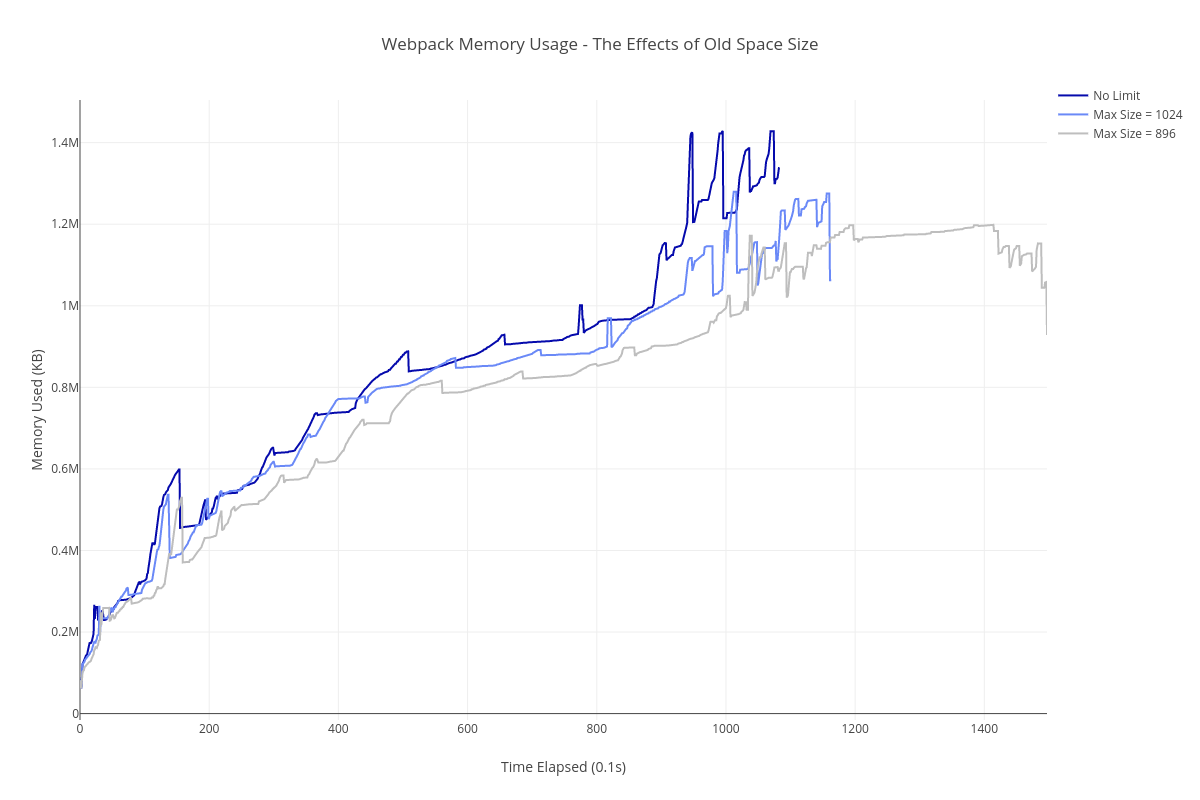
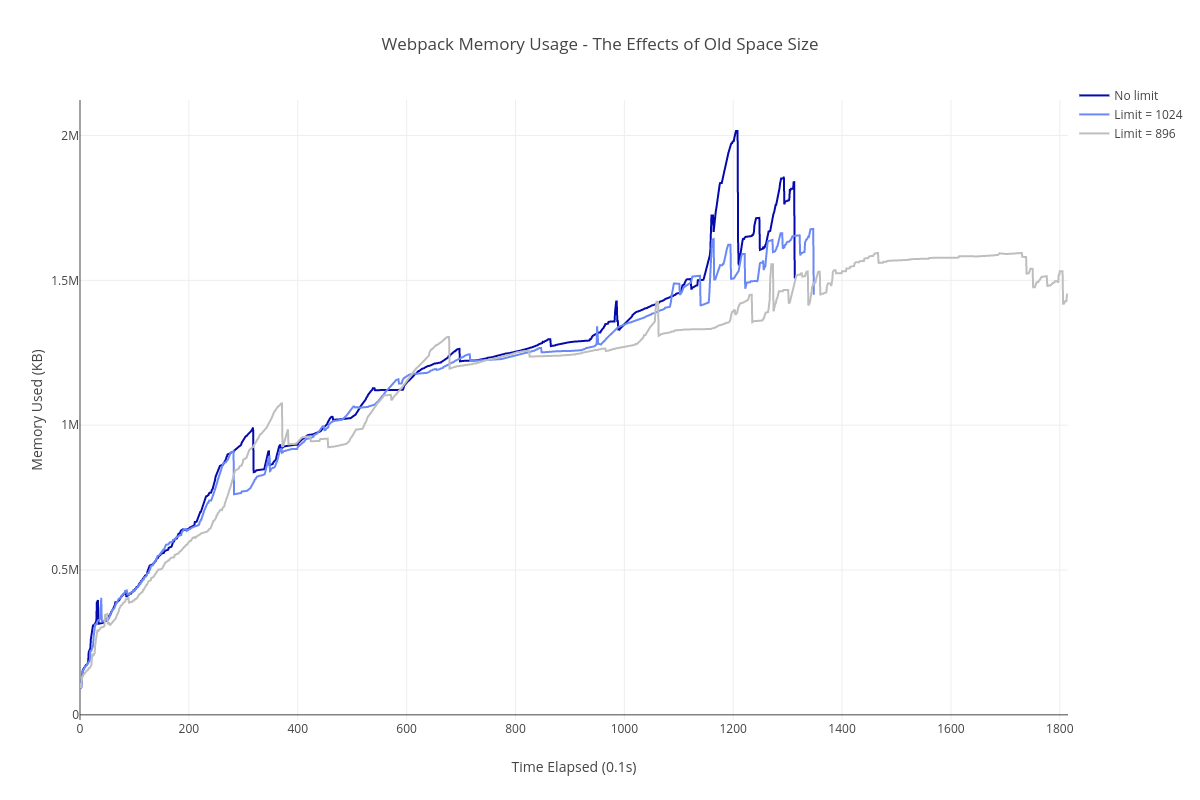
Updated draft for second article

diff --git a/webpack-article-2/working-draft.md b/webpack-article-2/working-draft.md
@@ -18,48 +18,56 @@ We have multiple pipelines for doing all sorts of stuff, but the focus of this a
 
 1. It clones the Github repo and checks out the commit that triggered the build
 2. It performs a number of preparatory tasks such as installing Node modules
-3. It executes `rake assets:precompile`, which is the Rails command for kicking off compilation in the Rails asset pipeline
-4. This compiles all of the assets for legacy Clio and, because we use the [Webpacker](https://github.com/rails/webpacker) gem, also starts Webpack to compile new Clio (Henceforth referred to as Apollo)
+3. It compiles all of the assets in the Rails asset pipeline (mainly used for our legacy application)
+4. It compiles our revamped application, Apollo, using Webpack
 
-This pipeline worked great, until it didn't. Our AWS EC2 instances are of type `c5.large`, which comes with 4GB of memory. Because of background processes, by the time `rake assets:precompile` begins, there is only around 2GB of memory available to be shared among the "actual" compilation processes. As the size of Apollo grew, Webpack started demanding more and more memory. Eventually, as Webpack was starved of the memory it needs, we started experiencing excruciatingly slow builds with intermittent failures.
+This pipeline worked great, until it didn't. Our AWS EC2 instances are of type `c5.large`, which comes with 4gb of memory. But because of other processes, by the time Webpack begins, there is only around 2gb of memory available for it to use. As the size of Apollo grew, Webpack started demanding more and more memory. Eventually, as Webpack was starved of the memory it needs, we started experiencing excruciatingly slow builds with intermittent failures.
+
+Now that the problem has been clearly identified, let's talk about the ways we tried to deal with it.
 
 ## The Blackbox Approach
 
-Now that the problem has been clearly identified, let us begin talking about the solutions.
-
-I would like to introduce the first approach we took as the "blackbox" approach, in reference to the blackbox method of testing that many programmers are familiar with. In this approach, we treated our Webpack process as a "black box" that can only be examined and controlled from the outside.
-
-Let me explain.
+I would like to introduce the first approach we took as the "blackbox" approach, in reference to the blackbox testing method that many programmers are familiar with. In this approach, we treated our Webpack project as a "black box" that can only be examined and controlled from the outside.
 
 No matter how complex your Webpack project may be, Webpack is still just a Node program that must conform to all of the normal rules that apply to any other Node program.
 
 This means two things. First, when Webpack is running, you should be able to examine it using the `ps` utility. Second, because it is a Node program, you should be able to configure the Node process that runs it using standard CLI options, such as `--max-old-space-size`.
 
-Before going further, I would like to mention that for this analysis, we temporarily removed all parallelized processes from our Webpack set-up, such as parallel uglification and `fork-ts-checker`. This reduced the complexity of our analysis and you may find it beneficial to do the same. With that said, let's dive into the details.
+Let me show you how we used these tools.
 
-To begin our analysis, we set up a command in our `package.json`:
+To begin our analysis, we took the command that we use to compile Apollo on CI:
 ```
-"build:webpack": "NODE_ENV=production webpack --progress --config ./config/webpack/production.js",
+NODE_ENV=production webpack --progress --config ./config/webpack/production.js
 ```
 
-With this, when we run `yarn build:webpack` from the root of our project, we should be running a compilation with configurations identical to what Webpacker uses to start Webpack during `rake assets:precompile`.
+And stuck it into our `package.json`:
+```JSON
+{
+  "scripts": {
+    "build:webpack": "NODE_ENV=production webpack --progress --config ./config/webpack/production.js"    
+  }
+}
+```
+
+This allowed us run our Webpack compilation by simply typing `yarn build:webpack`.
 
 With Webpack running, we opened up another terminal window and executed:
 ```
 ps ufaxww
 ```
 
-`ps` is a Unix utility for printing out a snapshot of all active processes. By passing `ufaxww`, the output that will not only show the details (Including memory usage) of all active processes, but also group them together according to parent-child relationships.
+`ps` is a Unix utility for printing out a snapshot of all active processes. By passing `ufaxww`, the output will show you the details of all active processes and also group together parent-child processes.
 
 For example, here is the output we saw when we ran this command, truncated to focus on Webpack-related processes:
 
 ```sh
-vagrant  28922  2.0  1.0 1138236 64668 pts/0   Sl+  21:40   0:00 node /usr/local/bin/yarn build:webpack
-vagrant  28932  0.0  0.0   4300   812 pts/0    S+   21:40   0:00  \_ /bin/sh -c NODE_ENV=production webpack --progress --config ./config/webpack/production.js
-vagrant  28933 88.7  7.1 1550560 435704 pts/0  Rl+  21:40   0:15      \_ node /home/vagrant/clio/webpack/themis/node_modules/.bin/webpack --progress --config ./config/webpack/production.js
+vagrant   3617  0.8  1.0 1138236 64720 pts/0   Sl+  17:45   0:00  node /usr/local/bin/yarn build:webpack
+vagrant   3627  0.0  0.0   4300   772 pts/0    S+   17:45   0:00   \_ /bin/sh -c NODE_ENV=production node ./node_modules/webpack/bin/webpack.js --progress --config ./config/webpack/production.js
+vagrant   3628 68.7  9.7 1700668 599088 pts/0  Rl+  17:45   0:29       \_ node ./node_modules/webpack/bin/webpack.js --progress --config ./config/webpack/production.js
+vagrant   3634 27.5  5.6 1151908 345332 pts/0  Sl+  17:45   0:11           \_ /usr/local/stow/nodejs-8.9.4/bin/node /home/vagrant/clio/webpack/themis/node_modules/fork-ts-checker-webpack-plugin/lib/service.js
 ```
 
-The sixth column from the left represents the amount of physical memory being consumed by the process on that line. The first two lines are actually generated by `yarn`, which we were using to execute the `build:webpack` command. The last line is the actual Node process that is running Webpack. As you can see, when this snapshot was taken, Webpack was consuming roughly 436MB of memory.
+The sixth column from the left represents the amount of physical memory (in kb) being consumed by the process on that line. The first two lines are actually generated by `yarn`, which we were using to execute the `build:webpack` command. The third line is the actual Webpack process. The forth line is a parallel process spawned by a plugin called `fork-ts-checker-webpack-plugin` which we use to try and speed up our build. All in all, Webpack was consuming roughly 944mb of memory when this snapshot was taken.
 
 Now that we had a sense of what is actually running when Webpack begins, we got rid of the extraneous output and asked for a summary statistic instead:
 ```
@@ -71,7 +79,7 @@ This command will filter down the output from `ps` to only lines that contain th
 But a single snapshot is not all that useful. So we made a Node script:
 
 ```js
-// webpack-memory-csv.js
+// profile-memory.js
 var process = require("process");
 var childProcess = require("child_process");
 
@@ -97,34 +105,44 @@ webpack.stderr.on("data", (data) => {
 });
 ```
 
-We placed this script at the root of our project. When ran, this script starts an interval timer that outputs the total amount of memory used by Webpack every 10th of a second. "Simutaneously," it also starts a new Webpack build by running the same command we put into our `package.json`. And here's the kicker: the output in CSV format. So, if we pipe the output into a file, we get a CSV file that can be used by all of your favorite graphing applications.
+When executed, `profile-memory.js` starts a new Webpack build. Then, as the build runs, a function is executed every 10th of a second that grabs the total memory being used and writes the result to standard output. Conveniently, the output of the script has been designed to be easily consumable by graphing applications.
 
 We ran the script three times and uploaded the files to [plot.ly](https://plot.ly) to create this graph. :chart_with_upwards_trend:
 
 ![Webpack Memory Plot Baseline](assets/plot-baseline.png)
 https://plot.ly/~XiaoChenClio/16/
 
-As you can see, with our current configuration, Webpack finishes compilation in around 110 ~ 120s. At the very most, our Webpack compilation appears to use about 1.4 million Kilobytes of memory (Or, 1.4GB).
+As you can see, with our current configuration, Webpack finishes compilation in around 120 ~ 130s. At the very most, our Webpack compilation appears to use about 2 million kilobytes (2gb) of memory.
 
-Now that we had an idea of what our Webpack build costs, what could we do? Well, this is where some knowledge about Node came in handy. Node uses V8 and can thus accept a number of command line options that configure the way V8 behaves. One of these is `--max-old-space-size`. To summarize Irina's [post](https://medium.com/@_lrlna/garbage-collection-in-v8-an-illustrated-guide-d24a952ee3b8), V8's memory management strategy divides up the heap into two parts: old space and new space. Objects in the old space are not subject to the frequent scavenging that occurs in the new space and are only garbage-collected when its capacity is reached. Therefore, if you set a lower capacity on the old space than the V8 default, it should lead to more garbage collections, albeit at the cost of total runtime.
+Now that we had an idea of what our Webpack build costs, what could we do? Well, this is where some knowledge about Node came in handy. Node uses V8 and can accept a number of command line options that configure the way V8 behaves. One of these is `--max-old-space-size`. To summarize Irina's [post](https://medium.com/@_lrlna/garbage-collection-in-v8-an-illustrated-guide-d24a952ee3b8), V8's memory management strategy divides up the heap into two parts: old space and new space. Objects in the old space are not subject to the frequent scavenging that occurs in the new space and are only garbage-collected when its capacity is reached. Therefore, if you set a lower capacity on the old space than the V8 default, it should lead to more garbage collections, albeit at the cost of total runtime. `--max-old-space-size` accepts a single number, interpreted as the maximum size of the old space in megabytes.
 
-So, with this knowledge, we altered our `build:webpack` command to the following:
+So, with this knowledge, we changed our `build:webpack` command so that we can control the size of the old space:
 
 ```
-"build:webpack": "NODE_ENV=production node --max-old-space-size=1024 ./node_modules/webpack/bin/webpack.js --progress --config ./config/webpack/production.js",
+"build:webpack": "NODE_ENV=production node --max-old-space-size=SIZE ./node_modules/webpack/bin/webpack.js --progress --config ./config/webpack/production.js",
 ```
 
-We ran our build with `--max-old-space-size` set to 1GB to test how it would run, then tried again with it set to 896MB. We also tried it at 768GB, but our build failed when we did that. Here are the results of the trials:
+We tried three different values for `SIZE`: 1024, 896 and 768. Our project compiled successfully at both 1024 and 896, but failed at 768. Using `profile-memory.js`, the results of the two successful trials were logged. We created a graph to compare the results:
 
 ![Webpack Memory Plot Old Space](assets/plot-old-space.png)
-https://plot.ly/~XiaoChenClio/16/
+https://plot.ly/~XiaoChenClio/1/
 
-As you can see, the when we lowered it down to 1GB, we reduced the amount of memory used by Webpack by around ~200MB, at the runtime cost of +10~20s, which is not bad at all. But when we lowered it down to 896MB, the reduction in memory we saw is negligible, especially considering the runtime cost we suffer.
+As we reduced the maximum size of the old space, Webpack took longer to build our project, but the amount of memory it consumed also decreased. We found `--max-old-space-size=1024` to be a sweet spot, as it reduced the the maximum memory used by around 400mb, at acceptable cost of +10s in total compile time.
+
+It is also worth noting `--max-old-space-size` will have no effect on parallel processes spawned during compilation, such as `fork-ts-checker`. It only affects the immediate Node process it is passed to.
 
 ### Key takeaways
 
-**TODO**
+1. Good tooling is essential to solving any problem. Without it, you can't properly diagnose a problem nor can you validate different hypotheses
+2. Node let's you control the size of V8's old space; setting it to a lower value can help reduce the amount of memory Webpack takes to compile your project, at the cost of longer compile times.
 
 ## The Whitebox Approach
 
-Let's face it, you can only get so far with a blackbox approach. When shit hits the fan, you've gotta open that fucking box and poke around in it. So, that's what we proceeded to do.
+Admittedly, the effectiveness of the methods described in blackbox approach is limited:
+
+1. While `profile-memory.js` gives you a good high-level overview of your Webpack project, it does not tell you exactly where the memory usage is coming from
+2. While limiting old max space size may help reduce memory usage, it comes at the cost of longer runtimes and also have to be adjusted and increased over time as your project grows
+
+In short, thus far, we have only been able to identify the issue and find ways to mitigate it, as opposed to actually finding the root causes and addressing the problem directly.
+
+In order to do that, we must shine light on the box and look inside of it.
